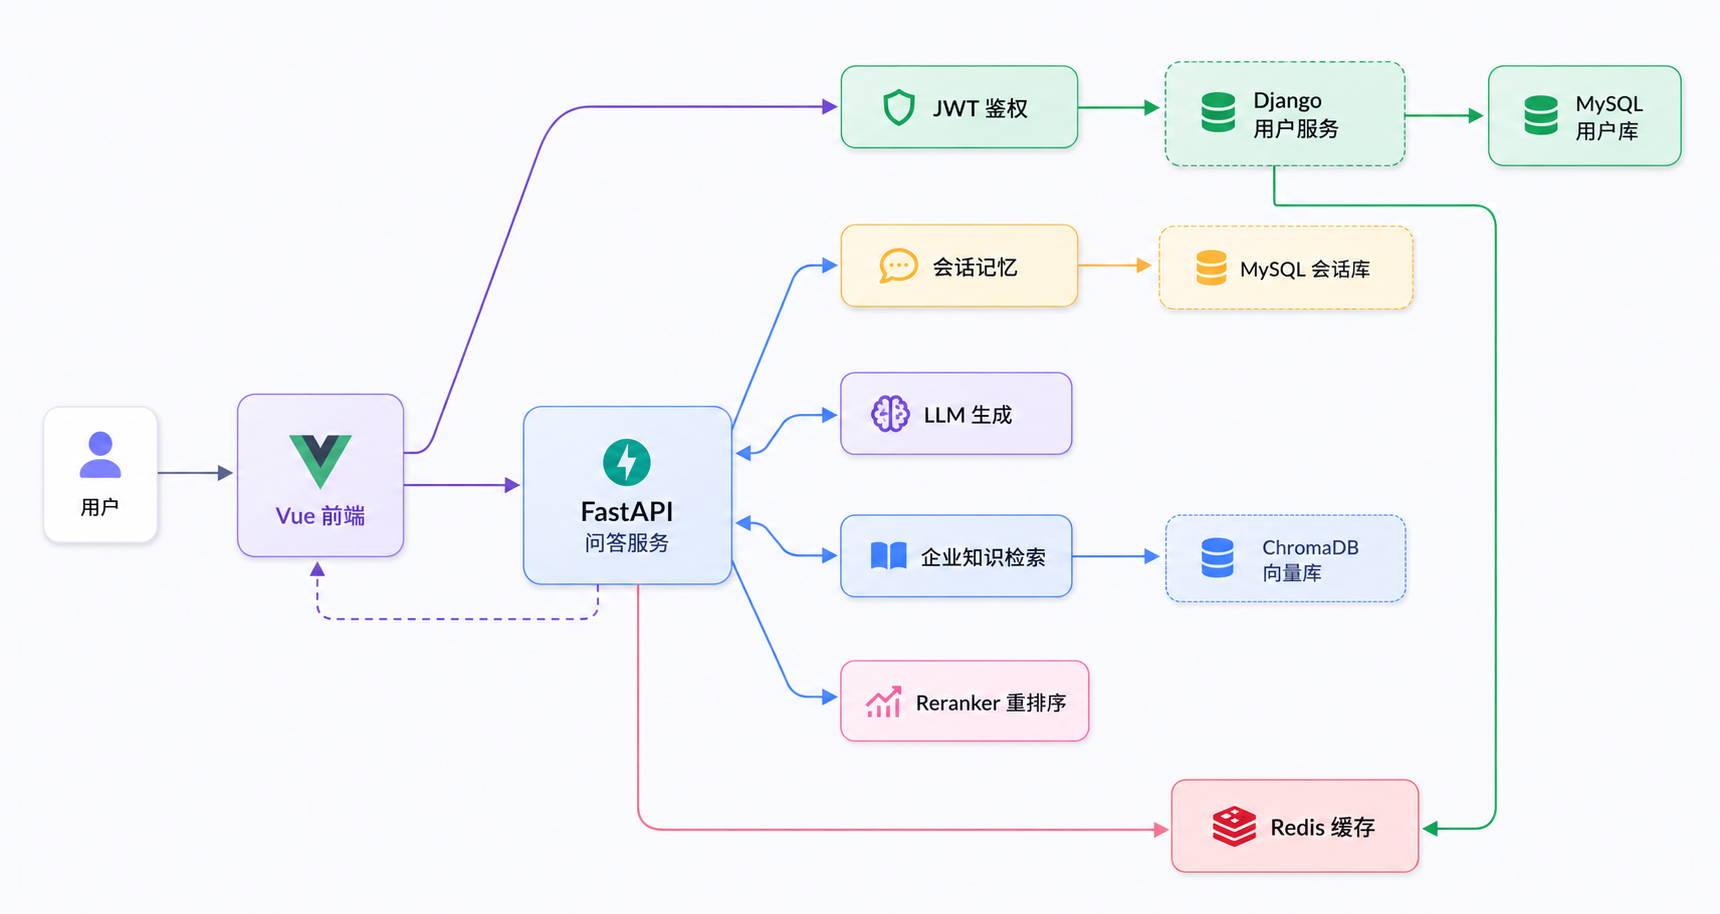
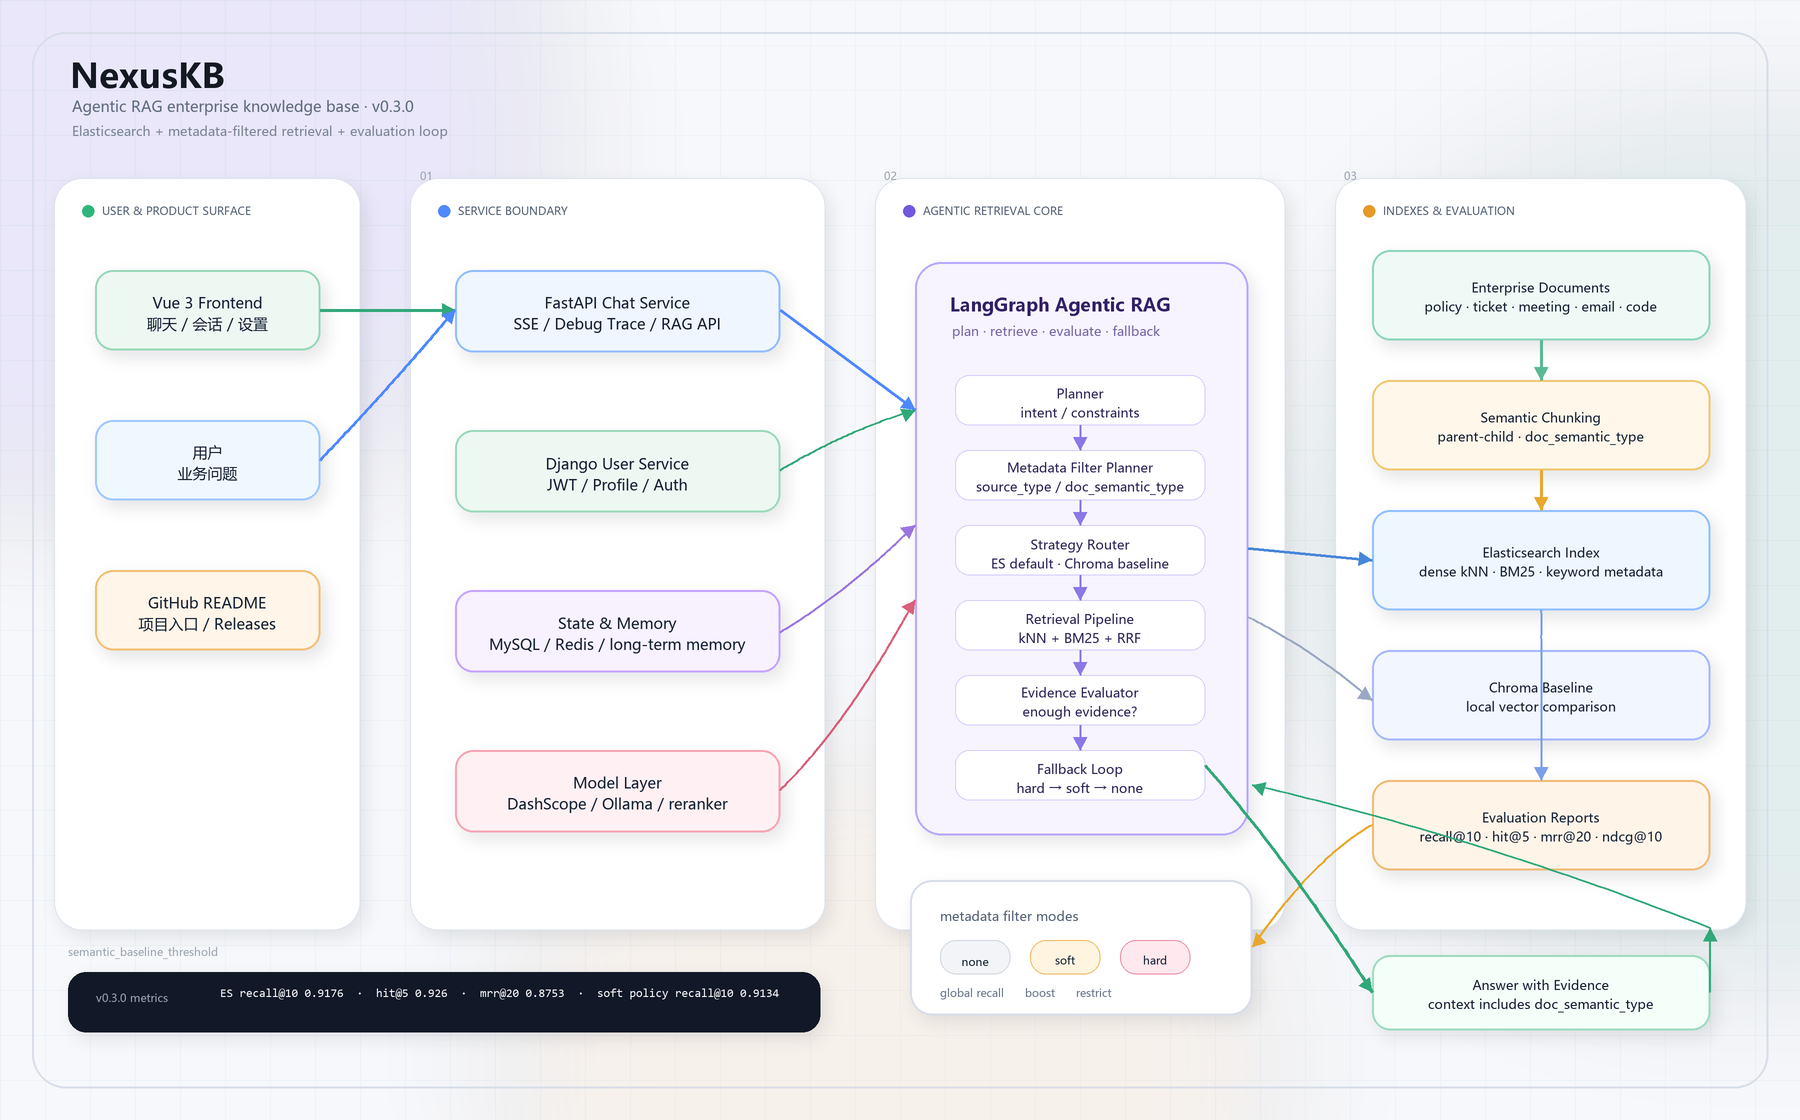
Update project architecture diagram

diff --git a/docs/assets/system-architecture-philosophy.md b/docs/assets/system-architecture-philosophy.md
@@ -1,0 +1,11 @@
+# System Cartography
+
+System Cartography treats software architecture as a carefully surveyed terrain rather than a stack of boxes. Space carries the explanation: user-facing surfaces sit at the left edge, orchestration forms the central landmass, retrieval engines occupy the technical right edge, and evaluation/data preparation orbit as calibrated instruments. The composition should feel meticulously crafted, as if every connection was measured, redrawn, and refined by a systems designer at the top of their field.
+
+Form is modular and precise. Rounded rectangles behave like engineered components; thin connector lines behave like signal paths; grouped regions behave like strata in a technical map. The final image should communicate through adjacency, layering, and directional flow more than prose. Text remains sparse, clinical, and essential-only: labels, short capability phrases, and version markers are visual anchors, not explanations.
+
+Color is a restrained information system. Cool blues and violets express agentic orchestration, green expresses user and authentication surfaces, amber expresses evaluation and metrics, red-pink expresses fallback/risk boundaries, and deep slate gives the whole artifact technical gravity. Each color choice must look painstakingly calibrated, not decorative; the work should appear labored over with care and master-level execution.
+
+Rhythm comes from repeated component cards, evenly spaced routes, and deliberate asymmetry. The most important structure is the central agentic workflow, which should visually command the page without overcrowding it. Retrieval and metadata filtering should feel like a refined instrument panel, not a paragraph of features. The result must reward sustained viewing: every small label, line break, and alignment should feel intentional.
+
+The diagram should be polished enough for a GitHub landing page and precise enough for a technical interview. It must look like countless hours were spent balancing hierarchy, density, whitespace, and routing clarity. Nothing should overlap, drift, or feel autogenerated; every shape and line should show painstaking attention and expert craftsmanship.

diff --git a/CHANGELOG.md b/CHANGELOG.md
@@ -12,3 +12,4 @@
 - 新增 RAG context 中 `doc_semantic_type` 输出，提升 evidence 可解释性。
 - 发布 GitHub Release `v0.3.0`。
 - 更新 GitHub README 首页，重写项目定位、核心能力、评估结果、Elasticsearch 启动说明和后续方向。
+- 更新项目框架图 `docs/assets/system-architecture.png`，补充 Agentic RAG、Elasticsearch、metadata filter 和评估闭环。
